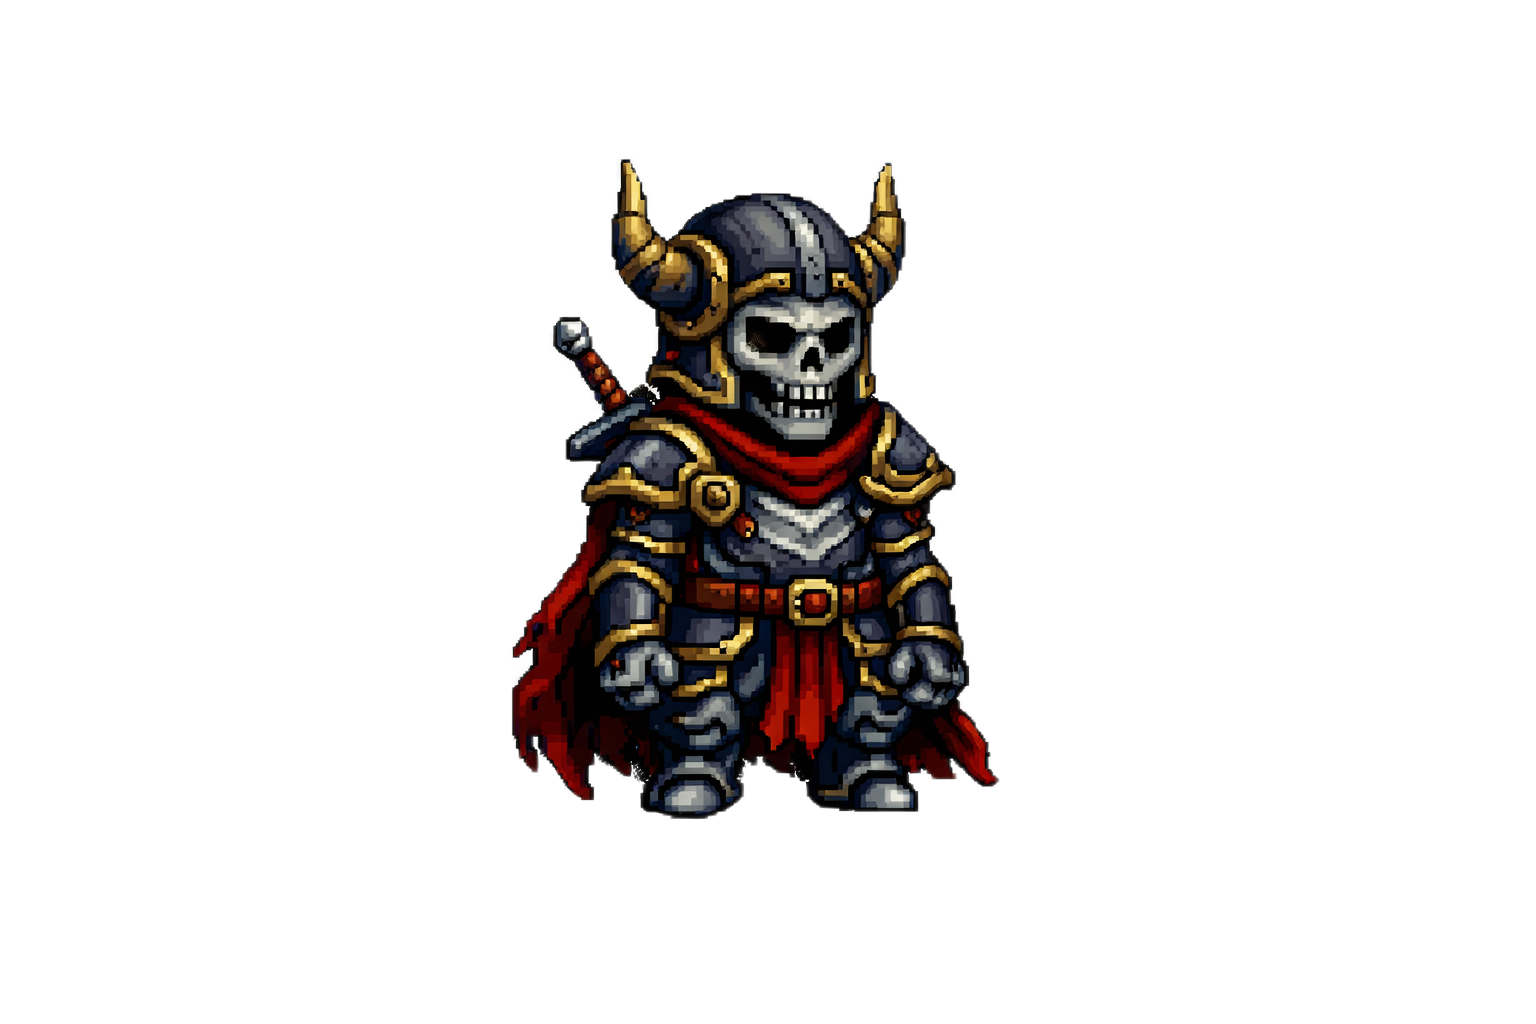
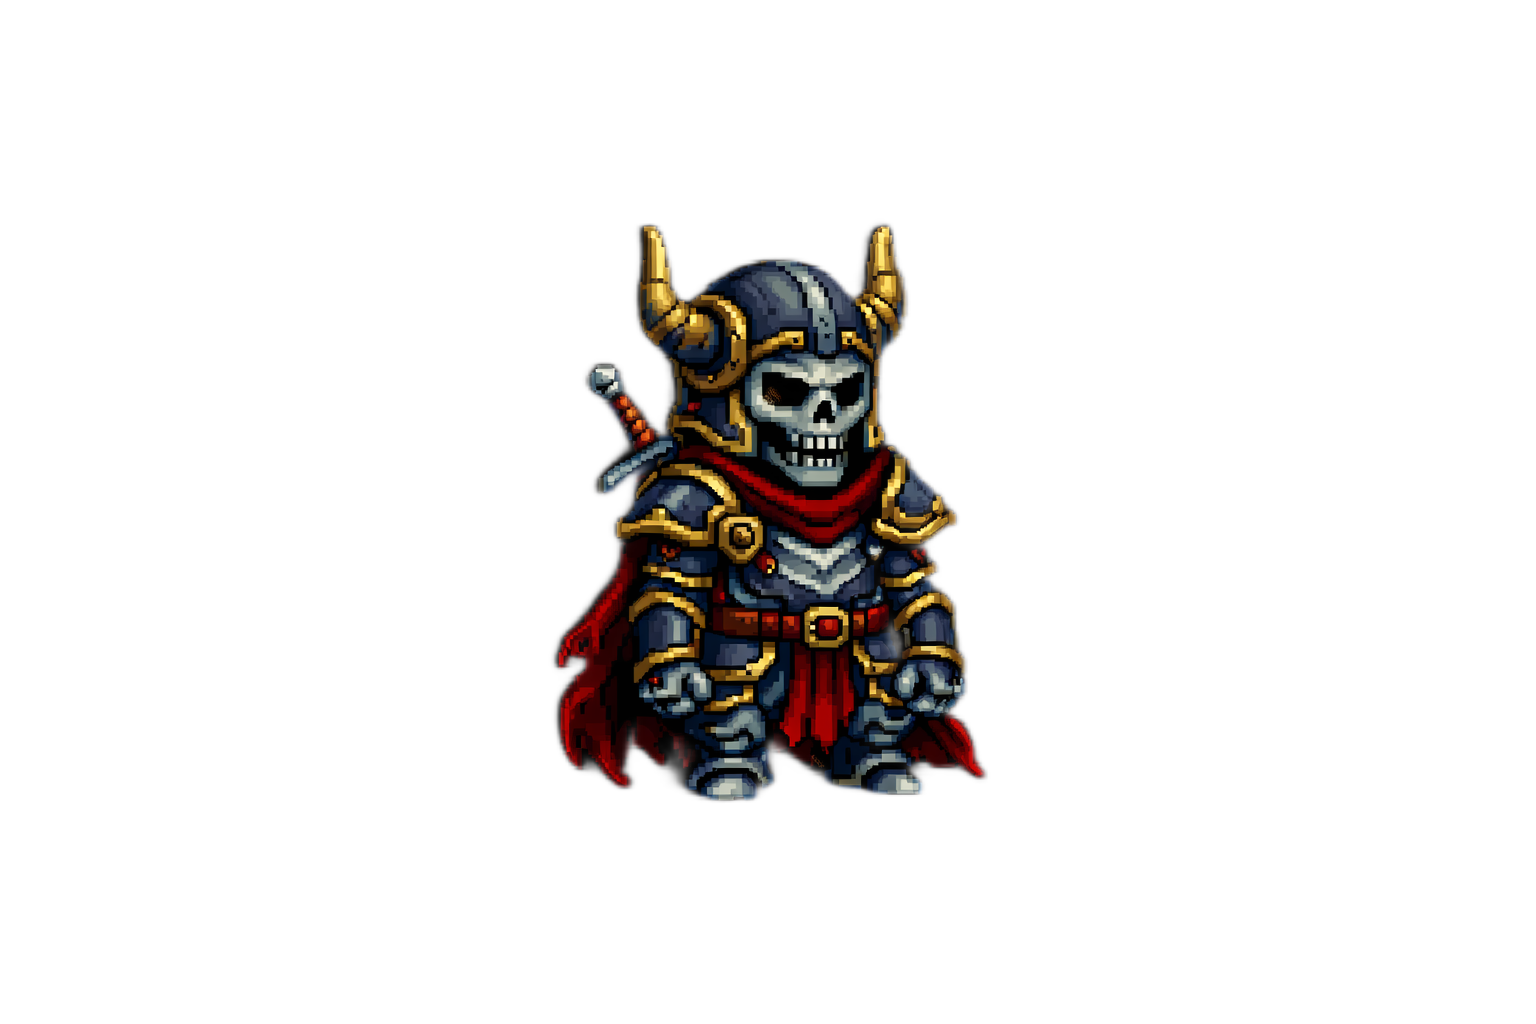
Исправление уровней, интерфейса, система времени прохождения уровня, полностью доделан магазин и скины

Changed region(s): [[0.3125, 0.1562, 0.6562, 0.8125]]

diff --git a/game.py b/game.py
@@ -4,7 +4,7 @@ import os
 import random
 import math
 import sounds
-
+import time
 
 SCREEN_WIDTH = 800
 SCREEN_HEIGHT = 600
@@ -28,6 +28,10 @@ class Player(arcade.Sprite):
         super().__init__(hit_box_algorithm="Simple")
         self.scale = PLAYER_SCALE
         selected_skin = get_selected_skin()
+        if selected_skin == 'character_4':
+            self.scale = 0.17
+        elif selected_skin == 'character_5':
+            self.scale = 0.17
         try:
             self.idle_texture = arcade.load_texture(f"images/characters/{selected_skin}.png")
         except:
@@ -88,39 +92,36 @@ class MyGame(arcade.View):
         self.god_mode = False
         self.up_pressed = False
         self.down_pressed = False
-        
+        self.level_start_time = None
+        self.level_elapsed_time = 0.0
         self.setup()
 
     def on_show_view(self):
         arcade.set_background_color(arcade.color.AZURE)
 
     def setup(self):
+        import time
+        self.level_start_time = time.time()
         self.items_collected = 0
         map_name = f"maps/map_{self.level}.tmx"
-        # If map doesn't exist, fallback to map_2.tmx or handle error
         if not os.path.exists(map_name):
             print(f"Warning: Map {map_name} not found, defaulting to maps/map_2.tmx")
             map_name = "maps/map_2.tmx"
-
         tile_map = arcade.load_tilemap(
             map_name,
             scaling=TILE_SCALING,
             layer_options={
-                "Wall": {"use_spatial_hash": True},  # коллизии
-                "Platforms": {"use_spatial_hash": True},  # видимые платформы
-                "Items": {"use_spatial_hash": True},  # предметы
-                "Door": {"use_spatial_hash": True},  # дверь выхода
+                "Wall": {"use_spatial_hash": True},
+                "Platforms": {"use_spatial_hash": True},
+                "Items": {"use_spatial_hash": True},
+                "Door": {"use_spatial_hash": True},
             }
         )
         self.tile_map = tile_map
         self.scene = arcade.Scene()
-
-        # Добавляем все слои, кроме Wall в сцену для отрисовки
         for layer_name, layer in tile_map.sprite_lists.items():
             if layer_name != "Wall":  # Wall не будет рисоваться
                 self.scene.add_sprite_list(layer_name, sprite_list=layer)
-
-        # Игрок
         self.player = Player()
         player_layer = tile_map.object_lists.get("Player")
         if player_layer:
@@ -132,17 +133,13 @@ class MyGame(arcade.View):
             self.player.center_y = self.player.height // 2
 
         self.scene.add_sprite("Player", self.player)
-
-        # Камера
         self.camera = arcade.Camera2D()
         self.gui_camera = arcade.Camera2D()
         self.particles = arcade.SpriteList()
         self.particle_texture = arcade.make_circle_texture(10, arcade.color.YELLOW)
-
         walls_for_physics = arcade.SpriteList()
         walls_for_physics.extend(tile_map.sprite_lists["Wall"])
         walls_for_physics.extend(tile_map.sprite_lists["Platforms"])
-
         self.physics_engine = arcade.PhysicsEnginePlatformer(
             self.player,
             gravity_constant=GRAVITY,
@@ -167,17 +164,30 @@ class MyGame(arcade.View):
             bold=True
         )
 
+        minutes = int(self.level_elapsed_time // 60)
+        seconds = int(self.level_elapsed_time % 60)
+        milliseconds = int((self.level_elapsed_time - int(self.level_elapsed_time)) * 1000)
+        arcade.draw_text(
+            f"⏱ {minutes:02}:{seconds:02}.{milliseconds:03}",
+            x=20,
+            y=self.window.height - 75,
+            font_size=20,
+            bold=True,
+        )
+
         if self.god_mode:
             arcade.draw_text(
                 "GOD MODE",
                 x=20,
-                y=self.window.height - 80,
+                y=self.window.height - 105,
                 color=arcade.color.RED,
                 font_size=20,
                 bold=True
             )
 
     def on_update(self, delta_time):
+        if self.level_start_time:
+            self.level_elapsed_time = time.time() - self.level_start_time
         if self.left_pressed and not self.right_pressed:
             self.player.change_x = -PLAYER_MOVEMENT_SPEED
         elif self.right_pressed and not self.left_pressed:
@@ -241,11 +251,29 @@ class MyGame(arcade.View):
                 old_record = get_level_crystals(self.level)
                 new_record = self.items_collected > old_record
 
+                from database import complete_level, get_level_crystals, update_level_time
+                from win_view import WinView
+
+                old_record = get_level_crystals(self.level)
+                new_record_crystals = self.items_collected > old_record
                 complete_level(self.level, self.items_collected)
 
+                # --- время ---
+                from database import get_level_time
+                old_time = get_level_time(self.level)  # нужно сделать функцию
+                new_time = self.level_elapsed_time
+                new_record_time = False
+
+                if old_time is None or new_time < old_time:
+                    update_level_time(self.level, new_time)
+                    new_record_time = True
+
                 self.window.show_view(
-                    WinView(self.level, self.items_collected, new_record)
+                    WinView(self.level, self.items_collected, new_record_crystals, new_record_time, new_time)
                 )
+
+                complete_level(self.level, self.items_collected)
+
 
         # Update particles
         self.particles.update()

diff --git a/win_view.py b/win_view.py
@@ -6,26 +6,26 @@ from menu import MenuView
 
 
 class WinView(arcade.View):
-    def __init__(self, level_id, crystals, new_record=False):
+    def __init__(self, level_id, crystals, new_record=False, new_record_time=False, level_time=None):
         super().__init__()
         sounds.win.play()
         self.level_id = level_id
         self.crystals = crystals
         self.new_record = new_record
+        self.new_record_time = new_record_time
+        self.level_time = level_time
         self.ui = arcade.gui.UIManager()
         self.ui.enable()
         self.setup_ui()
 
     def setup_ui(self):
         box = arcade.gui.UIBoxLayout(space_between=20)
-
         title = arcade.gui.UILabel(
             text="УРОВЕНЬ ПРОЙДЕН!🎉",
             font_size=30,
             text_color=arcade.color.GOLD
         )
         box.add(title)
-
         if self.new_record:
             record = arcade.gui.UILabel(
                 text="НОВЫЙ РЕКОРД!🦾",
@@ -33,22 +33,29 @@ class WinView(arcade.View):
                 text_color=arcade.color.LIME
             )
             box.add(record)
-
         stats = arcade.gui.UILabel(
             text=f"💎: {self.crystals}",
             font_size=20,
             text_color=arcade.color.WHITE
         )
         box.add(stats)
-
+        if self.level_time is not None:
+            minutes = int(self.level_time // 60)
+            seconds = int(self.level_time % 60)
+            milliseconds = int((self.level_time - int(self.level_time)) * 1000)
+            time_text = f"⏱ Время: {minutes:02}:{seconds:02}.{milliseconds:03}"
+            label_time = arcade.gui.UILabel(
+                text=time_text,
+                font_size=20,
+                text_color=arcade.color.WHITE
+            )
+            box.add(label_time)
         next_btn = arcade.gui.UIFlatButton(text="К выбору уровней", width=220)
         next_btn.on_click = lambda e: self.window.show_view(LevelSelectView())
         box.add(next_btn)
-
         menu_btn = arcade.gui.UIFlatButton(text="Главное меню", width=220)
         menu_btn.on_click = lambda e: self.window.show_view(MenuView(win=1))
         box.add(menu_btn)
-
         anchor = arcade.gui.UIAnchorLayout()
         anchor.add(box, anchor_x="center_x", anchor_y="center_y")
         self.ui.add(anchor)

diff --git a/database.py b/database.py
@@ -10,6 +10,7 @@ def get_connection():
 def init_db():
     with get_connection() as conn:
         c = conn.cursor()
+        # создаем таблицу уровней
         c.execute("""
         CREATE TABLE IF NOT EXISTS levels (
             id INTEGER PRIMARY KEY,
@@ -17,11 +18,19 @@ def init_db():
             crystals INTEGER DEFAULT 0
         )
         """)
-        for i in range(1, 6):
+        # добавляем уровни
+        for i in range(1, 5):  # теперь 4 уровня
             c.execute(
                 "INSERT OR IGNORE INTO levels (id) VALUES (?)", (i,)
             )
         conn.commit()
+
+        # Проверяем, есть ли колонка best_time, если нет — добавляем
+        c.execute("PRAGMA table_info(levels)")
+        columns = [col[1] for col in c.fetchall()]
+        if "best_time" not in columns:
+            c.execute("ALTER TABLE levels ADD COLUMN best_time REAL")
+            conn.commit()
 
 
 def get_levels():
@@ -92,7 +101,6 @@ def init_skins():
             (3, "character_3", 20),
             (4, "character_4", 30),
             (5, "character_5", 40),
-            (6, "character_6", 50),
         ]
         for s in skins:
             c.execute("INSERT OR IGNORE INTO skins (id, name, cost) VALUES (?, ?, ?)", s)
@@ -126,4 +134,17 @@ def select_skin(skin_name):
     with get_connection() as conn:
         c = conn.cursor()
         c.execute("UPDATE player_skin SET selected_skin=?", (skin_name,))
+        conn.commit()
+
+def get_level_time(level_id):
+    with get_connection() as conn:
+        c = conn.cursor()
+        c.execute("SELECT best_time FROM levels WHERE id=?", (level_id,))
+        result = c.fetchone()
+        return result[0] if result else None
+
+def update_level_time(level_id, time_seconds):
+    with get_connection() as conn:
+        c = conn.cursor()
+        c.execute("UPDATE levels SET best_time = ? WHERE id=?", (time_seconds, level_id))
         conn.commit()

diff --git a/level_select.py b/level_select.py
@@ -13,10 +13,25 @@ class LevelSelectView(arcade.View):
         sounds.press_button_1.play()
         box = arcade.gui.UIBoxLayout(space_between=15)
 
+        from database import get_level_time
+
         for level_id, completed, crystals in get_levels():
             status = "✅" if completed else "❌"
             crystal_text = f" 💎 {crystals}/10" if completed else ""
-            text = f"Уровень {level_id} {status}{crystal_text}"
+
+            # Получаем рекорд времени для уровня
+            best_time = get_level_time(level_id)
+            if best_time is not None:
+                minutes = int(best_time // 60)
+                seconds = int(best_time % 60)
+                milliseconds = int((best_time - int(best_time)) * 1000)
+                time_text = f" ⏱ {minutes:02}:{seconds:02}.{milliseconds:03}"
+            else:
+                time_text = ""
+
+            # Формируем текст кнопки
+            text = f"Уровень {level_id} {status}{crystal_text}{time_text}"
+
             btn = arcade.gui.UIFlatButton(text=text, width=420)
             btn.on_click = lambda e, lvl=level_id: self.start(lvl)
             box.add(btn)

diff --git a/shop.py b/shop.py
@@ -25,7 +25,7 @@ class ShopView(arcade.View):
     def setup_ui(self):
         self.ui.clear()
         self.skin_buttons.clear()
-        total_crystals = sum(get_level_crystals(i) for i in range(1, 6))
+        total_crystals = sum(get_level_crystals(i) for i in range(1, 5))
         skins = get_skins()
         self.selected_skin = get_selected_skin()
         root = arcade.gui.UIBoxLayout(vertical=True, space_between=15)
@@ -81,7 +81,7 @@ class ShopView(arcade.View):
         self.ui.add(anchor)
 
     def update_buttons(self):
-        total_crystals = sum(get_level_crystals(i) for i in range(1, 6))
+        total_crystals = sum(get_level_crystals(i) for i in range(1, 5))
         skins = get_skins()
         for idx, (name, btn) in enumerate(self.skin_buttons.items(), start=1):
             unlocked_status = next(s[3] for s in skins if s[1] == name)
